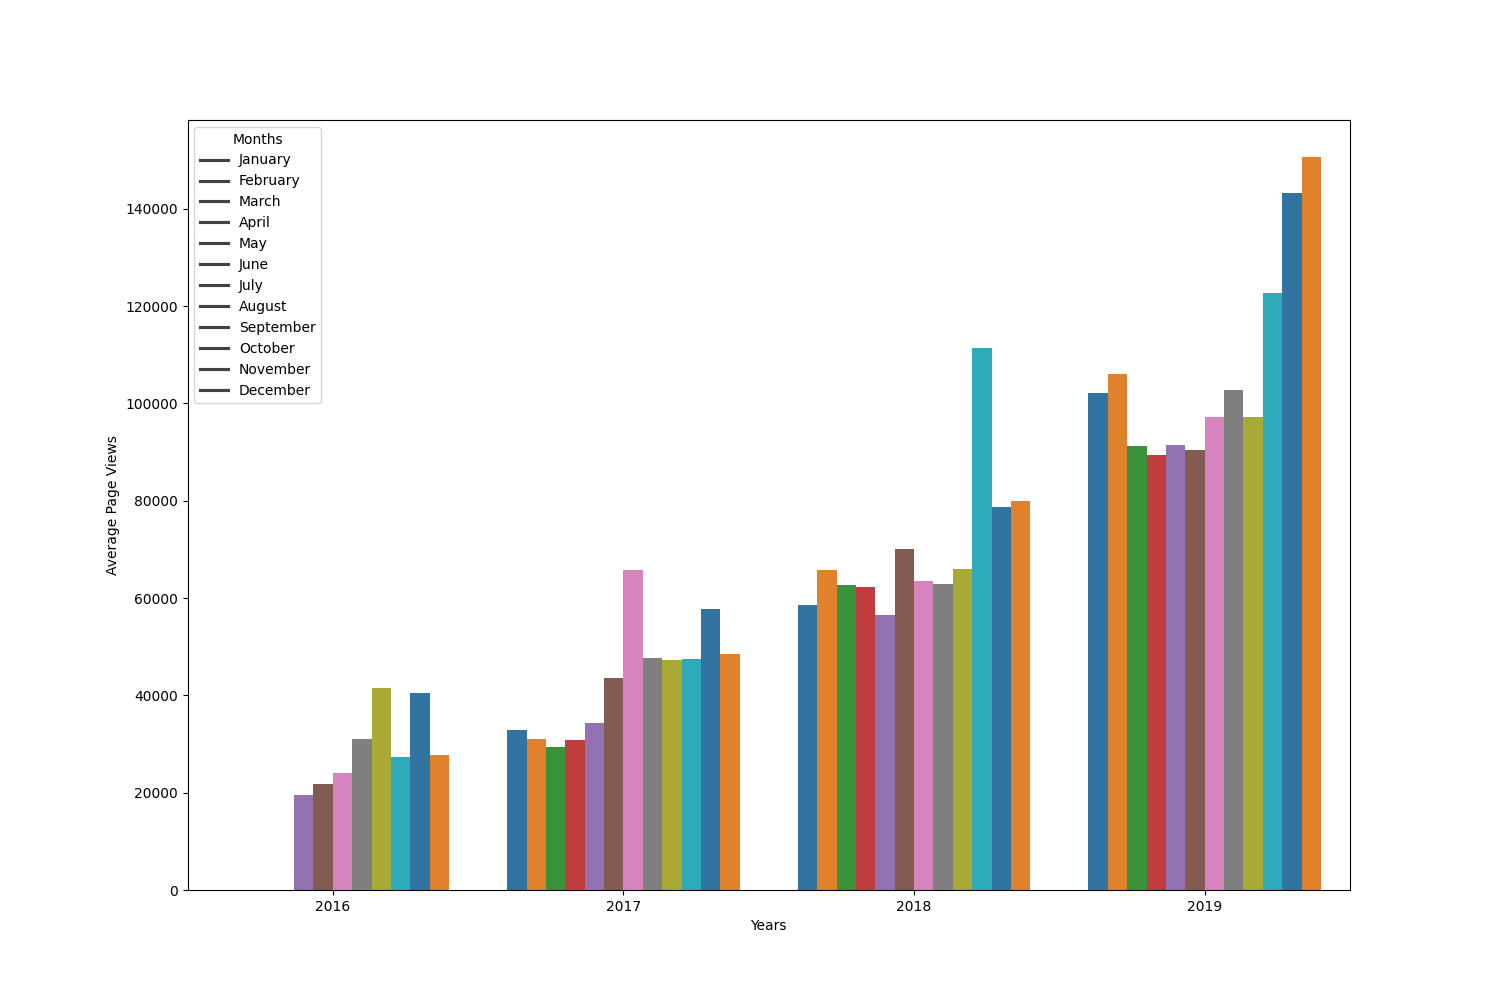
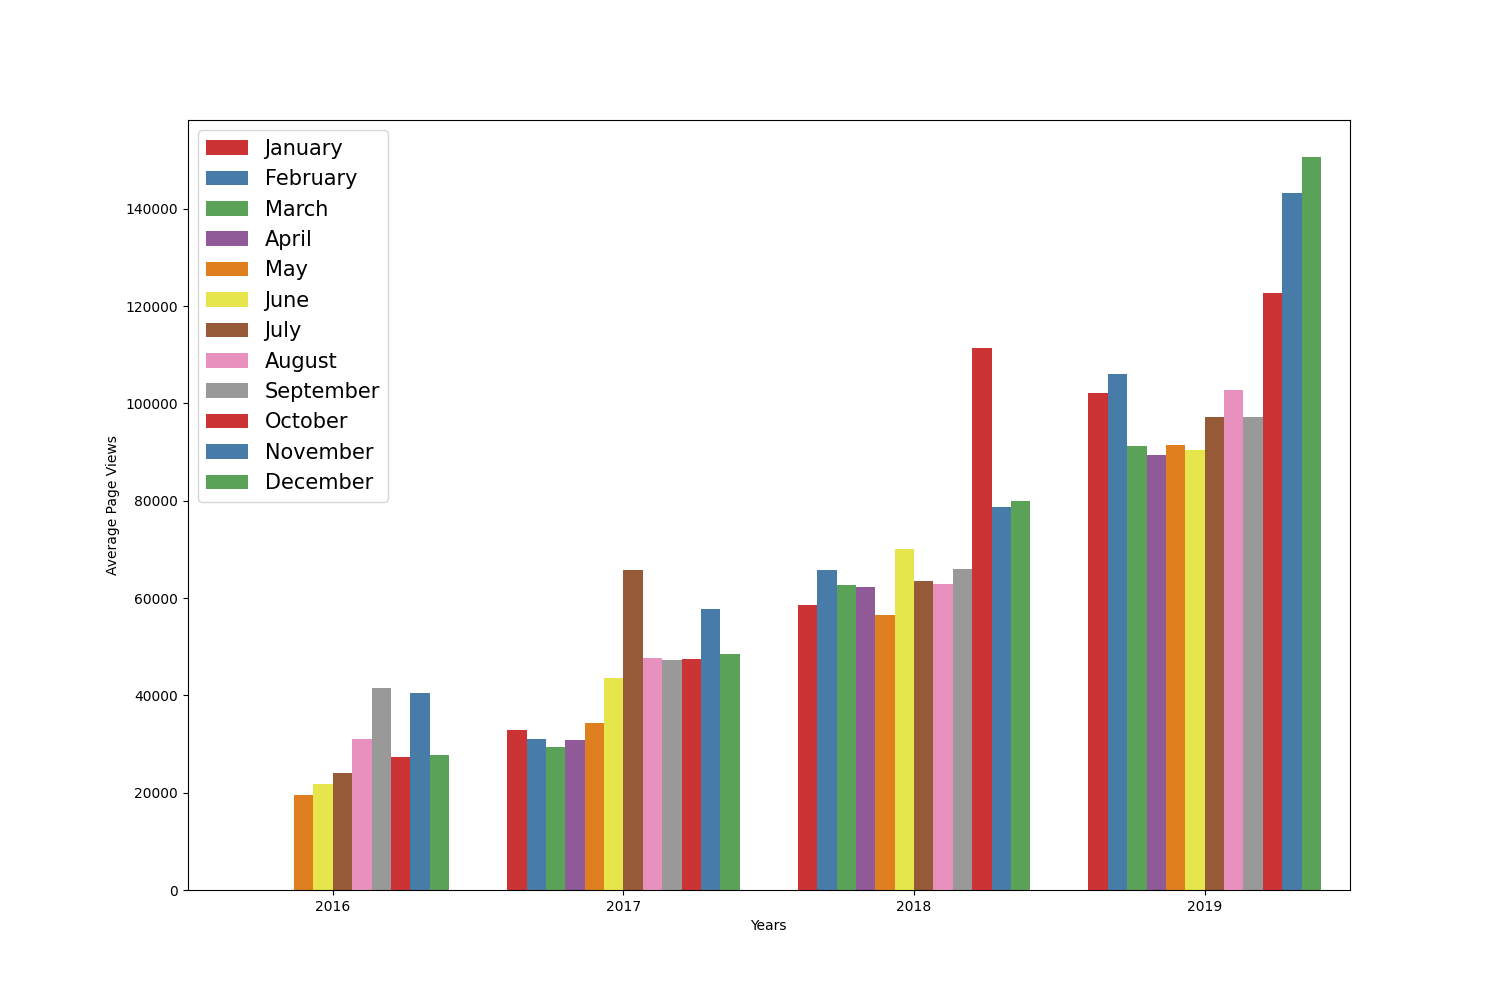
completed box plot and made changes to bar plot and line plot functions

diff --git a/time_series_visualizer.py b/time_series_visualizer.py
@@ -15,7 +15,7 @@ df = df.loc[(df['value'] >= df['value'].quantile(0.025))&
 def draw_line_plot():
     # Draw line plot
     fig, ax = plt.subplots(figsize=(16,6))
-    ax = sns.lineplot(data=df, x ='date',y='value')
+    ax = sns.lineplot(data=df, x ='date',y='value',color='#901cd4')
     ax.set(xlabel='Date', ylabel='Page Views',
            title='Daily freeCodeCamp Forum Page Views 5/2016-12/2019')
 
@@ -31,18 +31,16 @@ def draw_bar_plot():
     df_bar = df_bar.rename(columns={'value':'avg'})
     df_bar['Year'] = pd.DatetimeIndex(df['date']).year
     df_bar['Month'] = pd.DatetimeIndex(df['date']).month
-    print(df_bar)
     df_bar = df_bar.groupby(['Year', 'Month'], as_index=False,sort=False)['avg'].mean()
-    print(df_bar)
 
-    
     monthNames=['January', 'February', 'March', 'April', 'May', 'June', 'July', 
              'August', 'September', 'October', 'November', 'December']
     # Draw bar plot
     fig, ax = plt.subplots(figsize=(15,10))
-    ax = sns.barplot(data=df_bar,x='Year',y='avg',hue = 'Month',palette='tab10')
+    ax = sns.barplot(data=df_bar,x='Year',y='avg',hue = 'Month',palette='Set1')
     ax.set(xlabel='Years',ylabel='Average Page Views')
-    ax.legend(title='Months',labels=monthNames)
+    hands, labs = ax.get_legend_handles_labels()
+    ax.legend(handles=hands, labels=monthNames,fontsize=15)
 
     
     # Save image and return fig (don't change this part)
@@ -53,10 +51,28 @@ def draw_box_plot():
     # Prepare data for box plots (this part is done!)
     df_box = df.copy()
     df_box.reset_index(inplace=True)
-    df_box['year'] = [d.year for d in df_box.date]
-    df_box['month'] = [d.strftime('%b') for d in df_box.date]
+    # df_box['year'] = [d.year for d in df_box.date]
+    # df_box['month'] = [d.strftime('%b') for d in df_box.date]
+    df_box['Year'] = pd.DatetimeIndex(df['date']).year
+    df_box['Month'] = pd.DatetimeIndex(df['date']).month
+
+
 
     # Draw box plots (using Seaborn)
+    fig, (f1,f2) = plt.subplots(1,2,figsize=(16,10))
+
+    f1.set_title("Year-wise Box Plot(Trend)")
+    f1 = sns.boxplot(ax=f1,x='Year',y='value',data=df_box,hue='Year',palette='Set1',legend=False)
+    f1.set_xlabel("Year")
+    f1.set_ylabel("Page Views")
+
+    month_order = ["Jan", "Feb", "Mar", "Apr", "May", "Jun", "Jul", "Aug", "Sep", "Oct", "Nov", "Dec"]
+    f2.set_title("Month-wise Box Plot (Seasonality)")
+    f2 = sns.boxplot(ax=f2,x='Month',y="value",data=df_box,hue='Month',palette='Set1',legend=False)
+    f2.set_xticks([1,2,3,4,5,6,7,8,9,10,11,12])
+    f2.set_xticklabels(month_order)
+    f2.set_xlabel("Month")
+    f2.set_ylabel("Page Views")
 
 
 

diff --git a/main.py b/main.py
@@ -3,9 +3,9 @@ import time_series_visualizer
 from unittest import main
 
 # Test your function by calling it here
-# time_series_visualizer.draw_line_plot()
+time_series_visualizer.draw_line_plot()
 time_series_visualizer.draw_bar_plot()
-# time_series_visualizer.draw_box_plot()
+time_series_visualizer.draw_box_plot()
 
 # Run unit tests automatically
 # main(module='test_module', exit=False)
